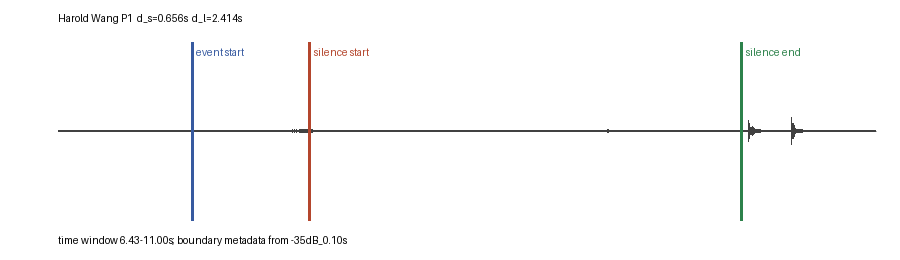
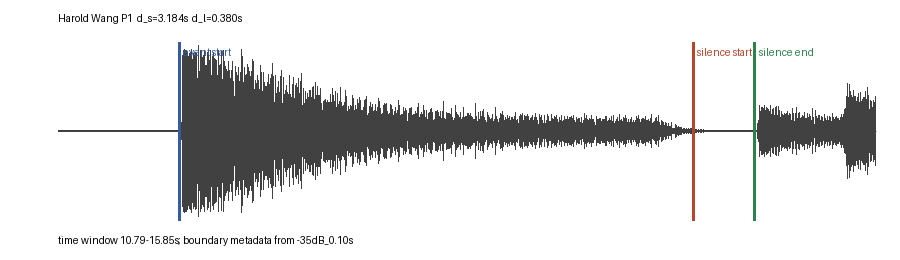
Fix demo recording MIDI audio offset

Changed region(s): [[0.1867, 0.1538, 0.9956, 0.8615], [0.1244, 0.8923, 0.4044, 0.9538], [0.1556, 0.0615, 0.28, 0.0923]]

diff --git a/demo/index.html b/demo/index.html
@@ -47,14 +47,14 @@
     <canvas id="timeline" width="780" height="120"></canvas>
   </div>
   <div class="card">
-    <h2>Trajectory Figure</h2>
-    <p>The full-corpus trajectory view is generated from the same source-condition event table.</p>
-    <img id="trajectory" src="../figures/figure1_trajectories.png" alt="Active-silence trajectories across the four Grave pauses" />
-  </div>
-  <div class="card">
     <h2>Waveform Check Panel</h2>
     <p class="hint" id="waveform-note">Choose a recording and pause to load the matching waveform panel when it is available.</p>
     <img id="waveform" alt="Waveform validation panel for the selected recording and pause" hidden />
+  </div>
+  <div class="card">
+    <h2>Trajectory Figure</h2>
+    <p>The full-corpus trajectory view is generated from the same source-condition event table.</p>
+    <img id="trajectory" src="../figures/figure1_trajectories.png" alt="Active-silence trajectories across the four Grave pauses" />
   </div>
   <div class="card">
     <h2>Selected Event</h2>

diff --git a/code/09_demo_recording.py b/code/09_demo_recording.py
@@ -155,14 +155,14 @@ def probe_duration(path: Path) -> float:
 
 def select_demo_pauses(
     silences: list[SilenceInterval],
-    first_midi_onset: float,
+    first_audio_onset: float,
     total_duration: float,
 ) -> dict[str, SilenceInterval]:
     analysis_limit = min(max(50.0, total_duration * 0.18), 90.0)
     candidates = [
         silence
         for silence in silences
-        if silence.start >= first_midi_onset - 0.25
+        if silence.start >= first_audio_onset - 0.25
         and silence.end <= analysis_limit
         and silence.duration >= 0.10
     ]
@@ -261,15 +261,31 @@ def main() -> None:
     parser.add_argument("--midi-output", default=Path("data/demo_recording_midi_release.csv"), type=Path)
     parser.add_argument("--manifest-output", default=Path("data/demo_recording_manifest.csv"), type=Path)
     parser.add_argument("--waveform-dir", default=Path("figures/waveform_panels"), type=Path)
+    parser.add_argument(
+        "--midi-audio-offset-sec",
+        default=4.358,
+        type=float,
+        help="Constant audio-minus-MIDI offset. The original files are not trimmed.",
+    )
+    parser.add_argument(
+        "--offset-uncertainty-sec",
+        default=0.030,
+        type=float,
+        help="Approximate uncertainty from two manually matched onset pairs.",
+    )
     parser.add_argument("--noise-db", default=-35, type=int)
     parser.add_argument("--min-duration", default=0.10, type=float)
     args = parser.parse_args()
 
     onsets, offsets = parse_midi_note_times(args.midi)
     first_midi_onset = onsets[0]
+    midi_audio_offset = args.midi_audio_offset_sec
+    offset_uncertainty = args.offset_uncertainty_sec
+    first_audio_onset = first_midi_onset + midi_audio_offset
+    aligned_offsets = [value + midi_audio_offset for value in offsets]
     total_duration = probe_duration(args.audio)
     silences = detect_silences(args.audio, noise_db=args.noise_db, min_duration=args.min_duration)
-    selected = select_demo_pauses(silences, first_midi_onset, total_duration)
+    selected = select_demo_pauses(silences, first_audio_onset, total_duration)
     threshold_setting = f"{args.noise_db}dB_{args.min_duration:.2f}s"
 
     manifest_row = {
@@ -281,10 +297,10 @@ def main() -> None:
     boundary_rows: list[dict[str, str]] = []
     event_rows: list[dict[str, str]] = []
     midi_rows: list[dict[str, str]] = []
-    previous_end = first_midi_onset
+    previous_end = first_audio_onset
     for pause in ["P1", "P2", "P3", "P4"]:
         silence = selected[pause]
-        event_start = max(first_midi_onset, previous_end)
+        event_start = max(first_audio_onset, previous_end)
         d_s = max(0.0, silence.start - event_start)
         boundary_row = {
             "recording_id": manifest_row["recording_id"],
@@ -311,17 +327,26 @@ def main() -> None:
                 "threshold_setting": threshold_setting,
             }
         )
-        local_offsets = [value for value in offsets if event_start <= value <= silence.end + 0.25]
-        release = max(local_offsets) if local_offsets else ""
+        local_offsets = [
+            (raw, aligned)
+            for raw, aligned in zip(offsets, aligned_offsets)
+            if event_start <= aligned <= silence.start
+        ]
+        release_pair = max(local_offsets, key=lambda pair: pair[1]) if local_offsets else None
+        raw_release = release_pair[0] if release_pair else ""
+        aligned_release = release_pair[1] if release_pair else ""
         midi_rows.append(
             {
                 "recording_id": manifest_row["recording_id"],
                 "pause": pause,
-                "midi_last_note_off_sec": f"{release:.3f}" if release != "" else "",
+                "midi_last_note_off_sec": f"{raw_release:.3f}" if raw_release != "" else "",
+                "midi_audio_offset_sec": f"{midi_audio_offset:.3f}",
+                "offset_uncertainty_sec": f"{offset_uncertainty:.3f}",
+                "aligned_midi_last_note_off_sec": f"{aligned_release:.3f}" if aligned_release != "" else "",
                 "audio_silence_start_sec": f"{silence.start:.3f}",
-                "audio_minus_midi_release_sec": f"{silence.start - release:.3f}" if release != "" else "",
-                "interpretation": "negative means the fixed audio threshold was crossed before the final MIDI note-off"
-                if release != ""
+                "audio_minus_midi_release_sec": f"{silence.start - aligned_release:.3f}" if aligned_release != "" else "",
+                "interpretation": "positive values mean the fixed audio threshold crossed after the aligned MIDI note-off"
+                if aligned_release != ""
                 else "no MIDI note-off found in local event window",
             }
         )
@@ -331,14 +356,17 @@ def main() -> None:
         "recording_id": manifest_row["recording_id"],
         "pause": "ROOM_TONE",
         "midi_last_note_off_sec": "",
+        "midi_audio_offset_sec": f"{midi_audio_offset:.3f}",
+        "offset_uncertainty_sec": f"{offset_uncertainty:.3f}",
+        "aligned_midi_last_note_off_sec": "",
         "audio_silence_start_sec": "",
         "audio_minus_midi_release_sec": "",
-        "interpretation": "pre-performance room tone measured before the first MIDI onset",
+        "interpretation": "pre-performance room tone measured before the aligned first MIDI onset",
     }
     temp_dir = Path("tmp")
     temp_dir.mkdir(exist_ok=True)
     temp_wav = temp_dir / "harold_grave_demo_11025.wav"
-    room_row.update(room_tone_stats(args.audio, first_midi_onset, temp_wav))
+    room_row.update(room_tone_stats(args.audio, first_audio_onset, temp_wav))
     midi_rows.insert(0, room_row)
 
     write_csv(args.events_output, event_rows)
@@ -355,6 +383,10 @@ def main() -> None:
                 "audio_format": "M4A/AAC, 48 kHz mono",
                 "duration_sec": f"{total_duration:.3f}",
                 "first_midi_onset_sec": f"{first_midi_onset:.3f}",
+                "midi_audio_offset_sec": f"{midi_audio_offset:.3f}",
+                "offset_uncertainty_sec": f"{offset_uncertainty:.3f}",
+                "first_audio_onset_sec": f"{first_audio_onset:.3f}",
+                "offset_method": "manual onset matching; MIDI 7.181s -> audio 11.539s and MIDI 10.727s -> audio 15.102s",
                 "status": "author-owned demo recording; excluded from corpus statistics",
                 "notes": "Used for hosted playback and MIDI/audio boundary illustration only.",
             }

diff --git a/docs/demo_video_script.md b/docs/demo_video_script.md
@@ -1,80 +1,95 @@
 # Demo Video Script: Active Silence in Beethoven
 
-Target length: 2:30-3:00.
+Target length: 4:30-5:00.
 
-Primary goal: show that the artifact is an inspectable demo, not just a static paper supplement. The video should open with sound from the author-owned Grave recording, then show how the same detector-boundary representation used in the paper separates sounding duration (`d_s`) from low-energy duration (`d_l`).
+Primary goal: show a reproducible inspection artifact with one author-owned audible example, while keeping the 16-performance professional corpus analytically separate. The video should not present the author recording as a seventeenth corpus row.
 
-## 0:00-0:08 — Opening With Sound
+## Required Captions
+
+Use burned-in captions or platform captions. Keep them short and technical:
+
+- "Author-owned demo recording; excluded from corpus statistics."
+- "Professional corpus audio is not redistributed."
+- "MIDI times are aligned to audio by a declared +4.358 s offset."
+- "`d_s`: detected sounding span; `d_l`: detected low-energy span."
+- "Release gap = audio threshold crossing - aligned MIDI note-off."
+
+## 0:00-0:20 — Opening With Audible Boundary
 
 Screen: public demo page at `https://haroldwangca.github.io/active-silence-pathetique/demo/`.
 
-Action: page loads on `HW_GRAVE_DEMO - Harold Wang (owned demo recording)`, pause `P1`. Press play in the browser audio control. Let the first event play for about six seconds while the boundary overlay and waveform panel are visible.
+Action: page loads on `HW_GRAVE_DEMO - Harold Wang (owned demo recording)`, pause `P1`. If it does not auto-load after refresh, click `Show Event`. Press play in the browser audio control. Let the P1 fragment play while the boundary overlay and waveform panel are visible.
 
-Voiceover: "This demo inspects what happens inside a notated pause. The blue portion marks detected sounding time, and the red portion marks the following low-energy interval."
+Voiceover: "This opening uses an author-owned recording, so the demo can include sound without redistributing commercial recordings. The blue span is detected sounding time, and the red span is the following low-energy interval."
 
-Visual emphasis: keep the waveform panel and boundary overlay centered. Do not start with the trajectory figure.
+Numbers to show or mention: P1 has `d_s = 3.184 s`, `d_l = 0.380 s`.
 
-## 0:08-0:28 — What The Demo Reads
+## 0:20-0:45 — What The Page Is Reading
 
-Screen: slowly scroll or point to the opening paragraph and controls.
+Screen: show the opening paragraph, recording dropdown, and selected-event JSON.
 
-Action: show the recording dropdown, pause dropdown, and selected-event JSON.
+Action: briefly open the recording dropdown so viewers see both `HW_GRAVE_DEMO` and the professional recording IDs.
 
-Voiceover: "The hosted page reads derived event tables, detector-boundary metadata, and a threshold summary. The professional recordings in the study remain metadata-only because the source recordings are copyrighted. The playable file here is a separate author-owned Grave recording used for demonstration and MIDI/audio checking, not as a seventeenth corpus performance."
+Voiceover: "The page reads derived event tables, detector-boundary metadata, waveform panels, and threshold-sensitivity summaries. The professional recordings are represented by descriptors and boundary metadata only. The playable file is separate: it is an author-owned Grave take used for demonstration and MIDI/audio calibration."
 
-On-screen note if editing captions: "Author-owned demo recording; excluded from corpus statistics."
+Caption: "Demo recording is not included in Table 1."
 
-## 0:28-0:55 — Boundary Model On One Pause
+## 0:45-1:30 — MIDI/Audio Clock Offset And Release Gap
 
-Screen: select `P1`, then show the boundary overlay and waveform panel.
+Screen: show the `MIDI/Audio Release Check` panel for P1, then select P4 and click `Show Event`.
 
-Action: zoom/crop so the waveform labels `event start`, `silence start`, and `silence end` are readable.
+Action: highlight `midi_audio_offset_sec`, `aligned_midi_last_note_off_sec`, `audio_silence_start_sec`, and `audio_minus_midi_release_sec`.
 
-Voiceover: "`d_s` is the interval from the local event start to the detector's silence start. `d_l` is the detected low-energy duration. These are detector-derived descriptors. They are useful for inspection, but they are not direct measurements of musical intention."
-
-Numbers to mention for current demo extraction: P1 has `d_s = 0.656 s` and `d_l = 2.414 s`.
-
-## 0:55-1:20 — MIDI/Audio Release Check
-
-Screen: show the "MIDI/Audio Release Check" panel for P1, then briefly switch to P4.
-
-Action: highlight `midi_last_note_off_sec`, `audio_silence_start_sec`, and `audio_minus_midi_release_sec`.
-
-Voiceover: "Because this recording has simultaneous MIDI, the demo can compare the audio threshold crossing with the last MIDI note-off in the same event window. In this take, the audio threshold often crosses before the final note-off. That does not invalidate the detector, but it shows why the paper treats these as energy-threshold descriptors rather than direct release measurements."
+Voiceover: "The audio and MIDI files were not started on the same clock. Rather than trimming the audio, the pipeline declares a constant audio-minus-MIDI offset of 4.358 seconds, with about 30 milliseconds of uncertainty from two onset matches. After alignment, the release gap is physically interpretable: it measures how long after key release the audio falls below the fixed -35 dBFS threshold."
 
 Numbers to mention:
-- P1: audio minus MIDI release = `-2.340 s`.
-- P4: audio minus MIDI release = `-0.343 s`.
 
-Interpretation: say this as a construct check. Do not frame it as a performer error.
+- P1 release gap: `+0.188 s`.
+- P2 release gap: `+0.106 s`.
+- P3 release gap: `+0.056 s`.
+- P4 release gap: `+0.106 s`.
 
-## 1:20-1:50 — Corpus-Level View
+Voiceover continuation: "Those values are all positive, as expected for piano sound: the key is released, the damped sound decays, and only then does the audio threshold crossing occur."
 
-Screen: scroll to the trajectory figure.
+## 1:30-2:15 — Boundary Model And Construct Caution
 
-Action: switch the dropdown from `HW_GRAVE_DEMO` to one professional recording, then return to the trajectory figure.
+Screen: keep P4 selected because its waveform is visually clearer. If changing dropdowns, click `Show Event` after each change.
 
-Voiceover: "The paper's corpus analysis stays separate. The trajectory figure summarizes sixteen nominally distinct professional recordings. The demo recording is not pooled with them. Its role is to make the boundary logic audible and to expose what the detector can and cannot distinguish."
+Action: crop around the waveform panel. Point to `event start`, `silence start`, and `silence end`.
 
-Visual emphasis: use the figure to show that the paper's result concerns relative trajectories across P1-P4, not a single playback example.
+Voiceover: "`d_s` and `d_l` are detector-derived descriptors, not direct measurements of intention. The MIDI/audio check makes that limitation concrete. On this controlled recording, the detector's threshold boundary is about a tenth of a second later than the aligned key release. That is the missing construct check the paper says commercial recordings cannot provide."
 
-## 1:50-2:15 — Sensitivity And Reproducibility
+On-screen text: "Mean release gap across P1-P4: about 0.11 s."
 
-Screen: show the threshold dropdown and selected-event JSON.
+## 2:15-3:00 — Corpus Result: No Supported P2-P3 Contrast
 
-Action: change the threshold dropdown once. Keep the label visible: "Aggregate threshold summary (does not re-run detection)."
+Screen: scroll to the trajectory figure, or show the selected-event panel for a professional recording and then the trajectory figure. If changing the recording dropdown, click `Show Event`.
 
-Voiceover: "The threshold control reports aggregate sensitivity metadata. It does not silently rerun the selected event or choose a more favorable setting. The shipped CSVs and scripts regenerate the event table, boundary table, waveform panels, and the author-owned demo-recording check."
+Voiceover: "The corpus result remains separate from this demo recording. Across sixteen nominally distinct professional recordings, the recording-level low-energy peak falls at P2 in nine recordings and P3 in seven. The binomial test gives p = 0.80, and the paired P2-P3 difference is -0.49 seconds with a confidence interval from -1.42 to +0.43 seconds. The result is not evidence for a stable P2-P3 contrast."
 
-Optional screen: repository file list showing `code/09_demo_recording.py`, `data/demo_recording_midi_release.csv`, and `media/harold_grave.m4a`.
+On-screen caption: "Corpus: 16 professional recordings; demo recording excluded."
 
-## 2:15-2:45 — Closing Claim
+## 3:00-3:40 — Four-Pause Ordering And P4 Dependence
 
-Screen: return to the boundary overlay with audio controls visible.
+Screen: trajectory figure.
 
-Action: play a short segment again, preferably P4 because it has a clearer waveform and a compact pause.
+Action: zoom enough to show P1-P4 labels and the downward P4 tendency.
 
-Voiceover: "The contribution is a small, reproducible inspection interface for active silence. It separates residual sounding time from low-energy duration, keeps copyrighted recordings external, and uses an author-owned recording to make the demo audible while keeping the corpus analysis intact."
+Voiceover: "There is a broader four-pause ordering: Kendall's W is 0.46 across P1 through P4. But that agreement depends strongly on P4 being short. Removing P4 drops W to 0.14. So the defensible claim is not that every middle pause behaves the same way; it is that the descriptor view exposes where the apparent regularity comes from."
+
+## 3:40-4:20 — Sensitivity And Reproducibility
+
+Screen: show the threshold dropdown and selected-event JSON. Then briefly show repository files: `code/09_demo_recording.py`, `data/demo_recording_manifest.csv`, `data/demo_recording_midi_release.csv`, and `media/harold_grave.m4a`.
+
+Action: change the threshold dropdown once and click `Show Event`. Keep the label visible: "Aggregate threshold summary (does not re-run detection)."
+
+Voiceover: "The threshold dropdown reports aggregate sensitivity metadata; it does not rerun the selected event in the browser. In the paper's corpus analysis, peak normalization moves the paired P2-P3 mean from -0.49 seconds to -0.24 seconds, and individual recordings shift by as much as several seconds. That sensitivity is why the demo emphasizes inspection and reproducibility rather than a single detector boundary as ground truth."
+
+## 4:20-4:55 — Closing
+
+Screen: return to P1 or P4 on the demo page. Press play for a short audible fragment.
+
+Voiceover: "The contribution is a compact inspection tool for active silence. It separates residual sounding time from low-energy duration, keeps copyrighted audio outside the hosted corpus artifact, and uses one author-owned audio-plus-MIDI recording to calibrate what the audio detector is measuring."
 
 Final on-screen text:
 
@@ -84,11 +99,12 @@ Code and demo: github.com/haroldwangca/active-silence-pathetique
 Author-owned playback example; professional corpus audio not redistributed.
 ```
 
-## Recording Notes
+## Filming Checklist
 
 - Record the browser window at 1080p or higher.
-- Use the hosted GitHub Pages page, not a local file URL.
-- Use browser zoom around 110-125% if the JSON or waveform labels are too small.
-- Keep the first eight seconds visually simple: waveform, overlay, audio control.
-- Do not include commercial audio in the video.
-- Do not say the author-owned take validates the corpus statistics. Say it illustrates the detector boundary and provides a MIDI/audio construct check.
+- Use the hosted GitHub Pages page, not a `file://` URL.
+- Use browser zoom around 110-125% if JSON or waveform labels are too small.
+- Click `Show Event` after every dropdown change before narrating.
+- Verify the first audio fragment is audible before recording.
+- Do not include commercial audio.
+- Do not describe the author-owned take as validating corpus statistics. It illustrates the detector boundary and provides a MIDI/audio construct check.

diff --git a/demo/README.md b/demo/README.md
@@ -11,6 +11,6 @@ To use copyrighted professional recordings locally:
 3. From the repository root, run `python3 -m http.server 8000`.
 4. Open `http://localhost:8000/demo/`.
 
-The viewer reads corpus metadata from `../data/events.csv` and `../data/pause_boundaries_source.csv`, demo metadata from `../data/demo_recording_events.csv` and `../data/demo_recording_boundaries.csv`, MIDI/audio comparison rows from `../data/demo_recording_midi_release.csv`, aggregate detector-sensitivity metadata from `../data/threshold_sweep.csv`, and images from `../figures/`. The browser audio element is pointed to the selected event span using a media-fragment URL.
+The viewer reads corpus metadata from `../data/events.csv` and `../data/pause_boundaries_source.csv`, demo metadata from `../data/demo_recording_events.csv` and `../data/demo_recording_boundaries.csv`, MIDI/audio comparison rows from `../data/demo_recording_midi_release.csv`, aggregate detector-sensitivity metadata from `../data/threshold_sweep.csv`, and images from `../figures/`. The demo-recording manifest declares a measured audio-minus-MIDI offset of `4.358 s`; MIDI release times are aligned by that offset before comparison with audio threshold crossings. The browser audio element is pointed to the selected event span using a media-fragment URL.
 
 The public version is served through GitHub Pages. Professional recording playback should remain local-only; do not commit commercial audio or local path mappings.

diff --git a/README.md b/README.md
@@ -42,7 +42,7 @@ Regenerate the demo-only tables and waveform panels with:
 python3 code/09_demo_recording.py --audio "/path/to/Pathetique Grave.m4a" --midi "/path/to/Pathetique Grave.mid"
 ```
 
-The script writes `data/demo_recording_events.csv`, `data/demo_recording_boundaries.csv`, `data/demo_recording_midi_release.csv`, `data/demo_recording_manifest.csv`, and four `Harold_Wang_P*.png` waveform panels. `data/demo_recording_midi_release.csv` compares the final MIDI note-off in each selected pause window with the audio threshold crossing; negative values indicate that the fixed audio threshold was crossed before the final MIDI note-off, which is a useful construct check rather than a corpus result.
+The script writes `data/demo_recording_events.csv`, `data/demo_recording_boundaries.csv`, `data/demo_recording_midi_release.csv`, `data/demo_recording_manifest.csv`, and four `Harold_Wang_P*.png` waveform panels. `data/demo_recording_manifest.csv` declares the measured audio-minus-MIDI offset (`4.358 s`, approximate uncertainty `0.030 s`) rather than trimming or rewriting the original files. `data/demo_recording_midi_release.csv` compares the final aligned MIDI note-off before each selected threshold crossing with the audio threshold crossing; positive values indicate that the fixed audio threshold crossed after the key release. These rows are a construct check, not a corpus result.
 
 ## Data Dictionary: `data/events.csv`
 
